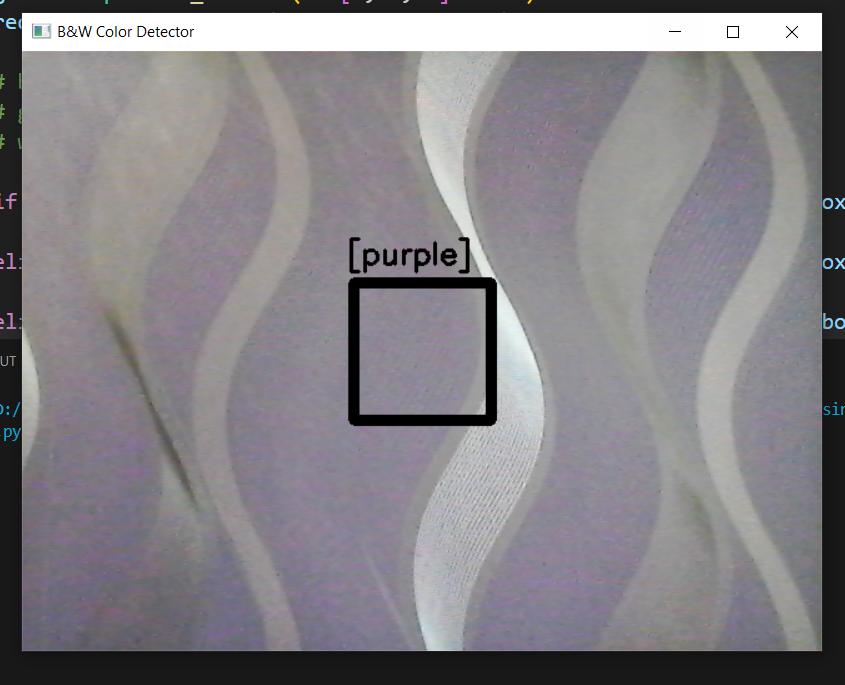
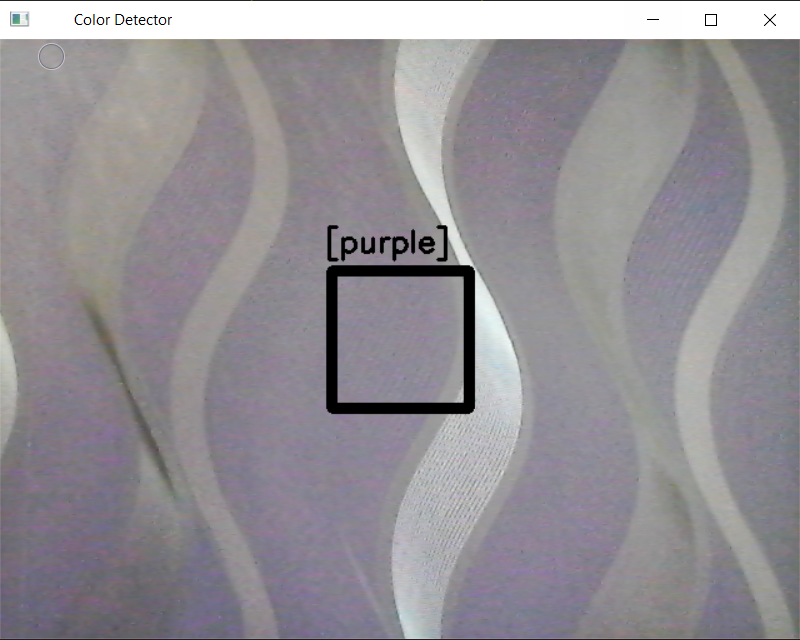
readme added

diff --git a/PyLearn7-Assignment35/color detector/color_detector.py b/PyLearn7-Assignment35/color detector/color_detector.py
@@ -1,4 +1,3 @@
-import fractions
 import cv2
 import numpy as np
 
@@ -8,7 +7,6 @@ box = np.zeros((110, 110), dtype=int)
 
 while True:
     _, frame = cap.read()
-    # frame = cv2.cvtColor(frame, cv2.COLOR_BGR2RGB)
     
     box_col_1 = frame.shape[1]//2 - 55
     box_row_1 = frame.shape[0]//2 - 55
@@ -18,24 +16,18 @@ while True:
     cv2.rectangle(frame, (box_col_1, box_row_1), (box_col_2, box_row_2), 0, 7)
     box = frame[box_col_1:box_col_2, box_row_1:box_row_2]
 
-    # b, g, r = cv2.split(frame)
-
     blue = np.count_nonzero(box[:, :, 0] > 120)
     green = np.count_nonzero(box[:, :, 1] > 140)
     red = np.count_nonzero(box[:, :, 2] > 130)
 
-    # b = np.count_nonzero((box < 80))
-    # g = np.count_nonzero((box > 120) & (box < 160))
-    # w = np.count_nonzero((box > 150))
-    
-    if red > 0.45 * (box.shape[0] * box.shape[1]) and green > 0.45 * (box.shape[0] * box.shape[1]):
+    if blue > 0.33 * (box.shape[0] * box.shape[1]) and green > 0.33 * (box.shape[0] * box.shape[1]) and red > 0.33 * (box.shape[0] * box.shape[1]):
+        color = "[white]" 
+    elif red > 0.45 * (box.shape[0] * box.shape[1]) and green > 0.45 * (box.shape[0] * box.shape[1]):
         color = "[yellow]"
     elif red > 0.6 * (box.shape[0] * box.shape[1]) and green > 0.3 * (box.shape[0] * box.shape[1]):
         color = "[orange]"
     elif red > 0.37 * (box.shape[0] * box.shape[1]) and blue > 0.53 * (box.shape[0] * box.shape[1]):
         color = "[purple]"
-    elif blue > 0.33 * (box.shape[0] * box.shape[1]) and green > 0.33 * (box.shape[0] * box.shape[1]) and red > 0.33 * (box.shape[0] * box.shape[1]):
-        color = "[white]" 
     elif blue < 0.03 * (box.shape[0] * box.shape[1]) and green < 0.03 * (box.shape[0] * box.shape[1]) and red < 0.03 * (box.shape[0] * box.shape[1]):
         color = "[black]" 
     elif blue > 0.9 * (box.shape[0] * box.shape[1]):
@@ -50,11 +42,6 @@ while True:
     cv2.putText(frame, color, (box_col_1 - 5, box_row_1 - 15), 
             cv2.FONT_HERSHEY_SIMPLEX, 0.8, 0, 2)
     
-    cv2.imshow("B&W Color Detector", frame)
+    cv2.imshow("Color Detector", frame)
     if cv2.waitKey(25) & 0xFF == ord('q'):
         break
-
-
-# print(frame)
-# print(box)
-# print(box.shape[0] * box.shape[1])

diff --git a/PyLearn7-Assignment35/color detector/readme.md b/PyLearn7-Assignment35/color detector/readme.md
@@ -1,0 +1,37 @@
+# Color Detector 🔴🟢🔵
+Using OpenCV techniques in Python, **Color Detector** detects different colors.
+
+## How to Install
+Run following command:
+```
+pip install -r requirements.txt
+```
+
+## How to Run
+Execute this command in terminal:
+```
+python color_detector.py
+```
+
+## Results
+
+<img src="pics\black.png" width="500" height="400">
+
+<img src="pics\blue.png" width="500" height="400">
+
+<img src="pics\green.png" width="500" height="400">
+
+<img src="pics\orange.png" width="500" height="400">
+
+<img src="pics\purple.png" width="500" height="400">
+
+<img src="pics\red.png" width="500" height="400">
+
+<img src="pics\white.png" width="500" height="400">
+
+<img src="pics\yellow.png" width="500" height="400">
+
+## Python
+This program is written using [Python](https://www.python.org/) language and [OpenCV](https://opencv.org/), whick is a library of programming functions for real-time computer vision, image processing, and machine learning.
+
+<img src="opencv.webp" width="262.5" height="124.75">
